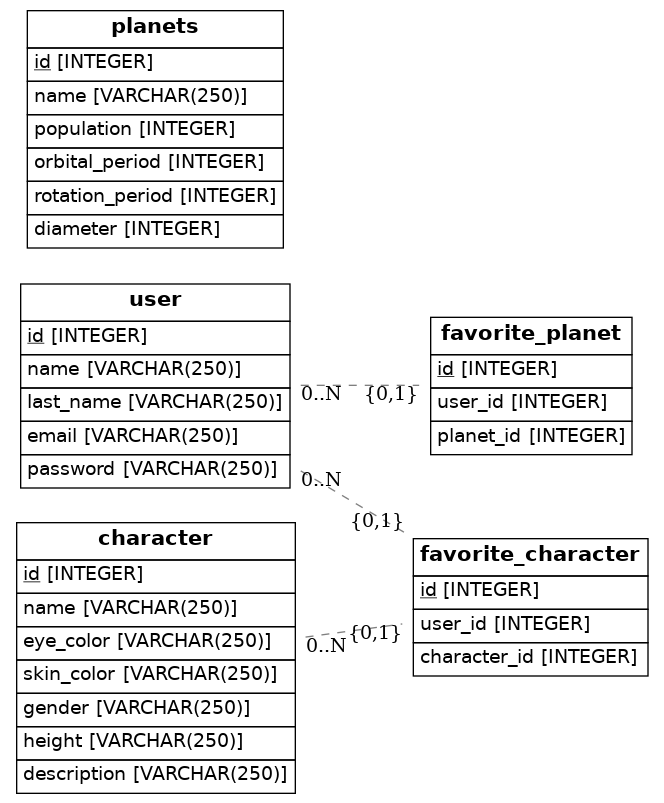
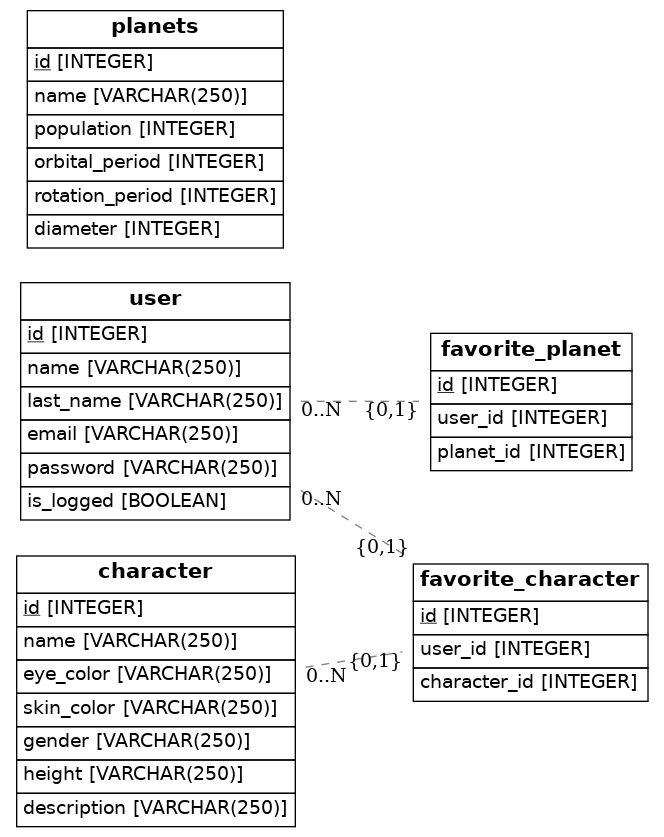
exercise finish

diff --git a/src/models.py b/src/models.py
@@ -1,6 +1,6 @@
 import os
 import sys
-from sqlalchemy import Column, ForeignKey, Integer, String
+from sqlalchemy import Column, ForeignKey, Integer, String,Boolean
 from sqlalchemy.ext.declarative import declarative_base
 from sqlalchemy.orm import relationship
 from sqlalchemy import create_engine
@@ -14,7 +14,7 @@ class User(Base):
     last_name = Column(String(250))
     email=Column(String(250), nullable=False)
     password=Column(String(250), nullable=False)
-    # is_logged= Column(Boolean, default=False, nullable=False)
+    is_logged= Column(Boolean, default=False, nullable=False)
 class Characters(Base):
     __tablename__ = 'character'
     id = Column(Integer, primary_key=True)
